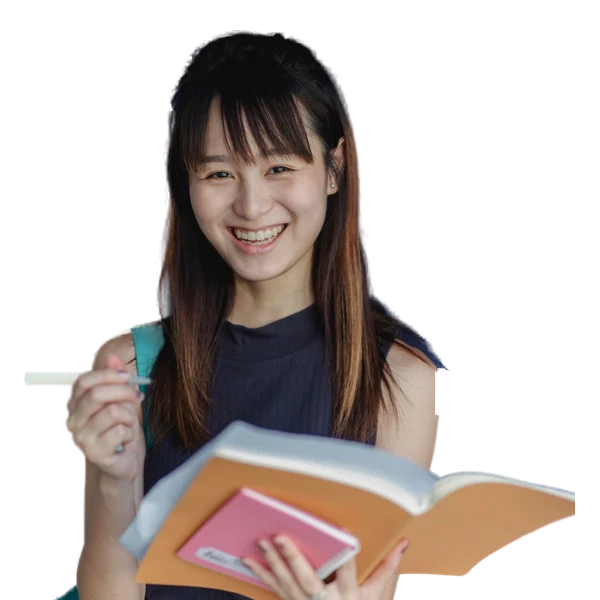
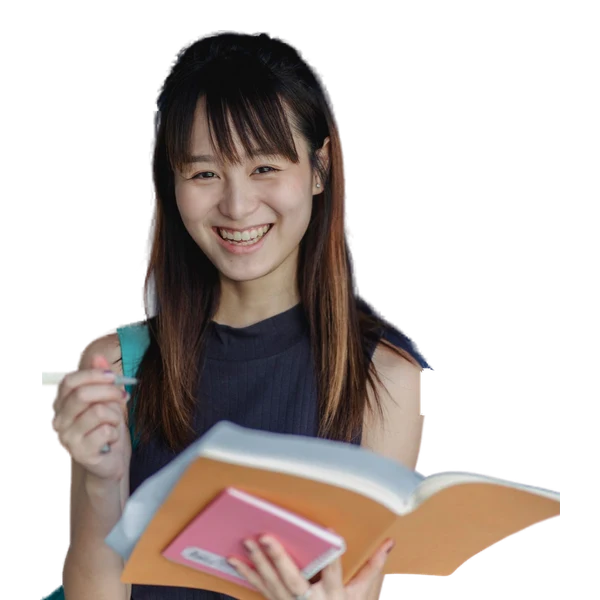
style(frontend): thẻ vinh danh gọn hơn — cân cỡ đầu 3 người, bỏ đoạn thanh treo cạnh bút, nửa bầu dục hẹp + chuyển sắc nhẹ, bóng đổ dưới người, 3 chỉ số (đầu vào/thời gian/ngày thi) trong ô chia cột, nơi thi dòng riêng

Changed region(s): [[0.03, 0.03, 0.96, 1.0]]

diff --git a/frontend/src/pages/marketing/home/TestimonialCard.tsx b/frontend/src/pages/marketing/home/TestimonialCard.tsx
@@ -3,24 +3,37 @@ import { cn } from '@/shared/utils';
 import type { Testimonial } from '@/shared/types';
 
 // indigo/violet đã được đổi sang teal/coral trong tailwind.config
-const BLOCK = { TOEIC: 'bg-indigo-500', VSTEP: 'bg-violet-500' } as const;
+const DOME = { TOEIC: 'from-indigo-400 to-indigo-600', VSTEP: 'from-violet-400 to-violet-600' } as const;
 const LABEL = { TOEIC: 'text-indigo-300', VSTEP: 'text-violet-300' } as const;
 
-/** Thẻ vinh danh học viên: ảnh người tách nền đứng trước khối màu nửa bầu dục, điểm lớn + bài thi + tên bên dưới */
-export const TestimonialCard: React.FC<{ item: Testimonial }> = ({ item: t }) => (
-  <figure className="h-full flex flex-col text-center">
-    <div className="relative h-72 md:h-80">
-      <div aria-hidden className={cn('absolute inset-x-3 bottom-0 h-[62%] rounded-[50%_50%_0_0/100%_100%_0_0]', BLOCK[t.exam])} />
-      {t.avatar && <img src={t.avatar} alt={t.name} loading="lazy" className="relative mx-auto h-full w-auto object-contain object-bottom" />}
-    </div>
-    <figcaption className="flex-1 flex flex-col pt-5">
-      <p className="font-display text-6xl md:text-7xl font-extrabold leading-none tracking-tight text-amber-400 tabular-nums">{t.after}</p>
-      <p className={cn('mt-2 text-sm font-semibold', LABEL[t.exam])}>{t.test}</p>
-      <p className="mt-1 font-display text-xl font-bold text-white">{t.name}</p>
-      <p className="text-sm text-slate-400">{t.role}</p>
-      <p className="mt-4 border-t border-white/10 pt-4 text-sm text-slate-400">
-        Đầu vào <span className="text-slate-200 tabular-nums">{t.before}</span> · {t.weeks} tuần · thi {t.examDate}, {t.venue}
-      </p>
-    </figcaption>
-  </figure>
-);
+/** Thẻ vinh danh học viên: ảnh người tách nền đứng trước khối màu nửa bầu dục, điểm lớn + bài thi + tên, 3 chỉ số bên dưới */
+export const TestimonialCard: React.FC<{ item: Testimonial }> = ({ item: t }) => {
+  const stats = [
+    { label: 'Đầu vào', value: t.before },
+    { label: 'Thời gian', value: `${t.weeks} tuần` },
+    { label: 'Ngày thi', value: t.examDate },
+  ];
+  return (
+    <figure className="h-full flex flex-col text-center">
+      <div className="relative h-72 md:h-80">
+        <div aria-hidden className={cn('absolute inset-x-6 bottom-0 h-[60%] rounded-[50%_50%_0_0/100%_100%_0_0] bg-gradient-to-b', DOME[t.exam])} />
+        {t.avatar && <img src={t.avatar} alt={t.name} loading="lazy" className="relative mx-auto h-full w-auto object-contain object-bottom [filter:drop-shadow(0_10px_18px_rgba(0,0,0,0.35))]" />}
+      </div>
+      <figcaption className="flex-1 flex flex-col pt-6">
+        <p className="font-display text-6xl md:text-7xl font-extrabold leading-none tracking-tight text-amber-400 tabular-nums">{t.after}</p>
+        <p className={cn('mt-2 text-sm font-semibold', LABEL[t.exam])}>{t.test}</p>
+        <p className="mt-3 font-display text-xl font-bold text-white">{t.name}</p>
+        <p className="text-sm text-slate-400">{t.role}</p>
+        <dl className="mt-5 grid grid-cols-3 divide-x divide-white/10 rounded-xl border border-white/10 bg-white/[0.03] py-3">
+          {stats.map((s) => (
+            <div key={s.label} className="px-2">
+              <dt className="text-[11px] text-slate-500">{s.label}</dt>
+              <dd className="mt-0.5 text-sm font-semibold text-slate-100 tabular-nums">{s.value}</dd>
+            </div>
+          ))}
+        </dl>
+        <p className="mt-2 text-xs text-slate-500">Thi tại {t.venue}</p>
+      </figcaption>
+    </figure>
+  );
+};

diff --git a/frontend/src/shared/mocks/marketing.ts b/frontend/src/shared/mocks/marketing.ts
@@ -216,7 +216,7 @@ export const BLOG_CATEGORIES = [
 
 export const TESTIMONIALS: Testimonial[] = [
   {
-    avatar: '/images/students/hv-hoang-lan.webp',
+    avatar: '/images/students/hv-hoang-lan.webp?v=2',
     name: 'Phạm Hoàng Lan',
     role: 'Sinh viên ĐH Bách khoa Hà Nội',
     exam: 'TOEIC',
@@ -231,7 +231,7 @@ export const TESTIMONIALS: Testimonial[] = [
     quote: 'Trước mình làm đề xong là thôi, câu sai lần sau vẫn sai. Từ hồi dùng sổ tay lỗi sai thì Part 5 lên rõ, riêng Reading tăng hơn 150 điểm.',
   },
   {
-    avatar: '/images/students/hv-minh-khoa.webp',
+    avatar: '/images/students/hv-minh-khoa.webp?v=2',
     name: 'Lê Minh Khoa',
     role: 'Giáo viên tiếng Anh THPT, Đà Nẵng',
     exam: 'VSTEP',
@@ -246,7 +246,7 @@ export const TESTIMONIALS: Testimonial[] = [
     quote: 'Giáo viên THPT cần chứng chỉ C1 nên mình phải thi lại. Đi dạy cả ngày, tối chỉ học được khoảng 45 phút, nhưng bài Writing nào cũng được chấm theo từng tiêu chí nên biết mình mất điểm ở đâu.',
   },
   {
-    avatar: '/images/students/hv-gia-han.webp',
+    avatar: '/images/students/hv-gia-han.webp?v=2',
     name: 'Trần Gia Hân',
     role: 'Nhân viên kinh doanh, TP.HCM',
     exam: 'TOEIC',

diff --git a/frontend/src/pages/marketing/HomePage.tsx b/frontend/src/pages/marketing/HomePage.tsx
@@ -381,7 +381,7 @@ export const HomePage: React.FC = () => {
         <Reveal>
           <SectionTitle dark eyebrow="Học viên nói gì" title={<>Điểm số thật, <span className="hero-gradient-text">người thật.</span></>} description="Ba trong số hàng nghìn học viên đã tăng điểm trong năm nay." />
         </Reveal>
-        <Stagger className="grid md:grid-cols-3 gap-6">
+        <Stagger className="grid md:grid-cols-3 gap-10 md:gap-8">
           {TESTIMONIALS.map((t) => (
             <TestimonialCard key={t.name} item={t} />
           ))}
